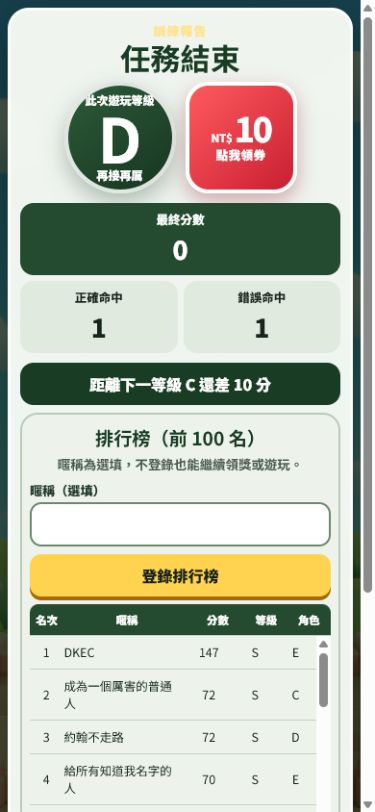
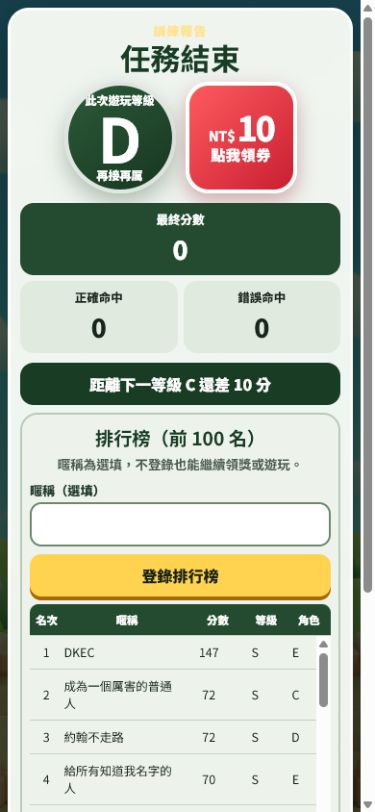
style: enlarge coupon supporting text

Changed region(s): [[0.5573, 0.1232, 0.7333, 0.2155], [0.2347, 0.3695, 0.2933, 0.431], [0.6747, 0.3695, 0.7333, 0.431]]

diff --git a/src/styles.css b/src/styles.css
@@ -522,7 +522,7 @@ button:focus-visible {
 }
 
 .reward-currency {
-  font-size: 0.72rem;
+  font-size: 0.9rem;
   font-weight: 800;
   letter-spacing: -0.02em;
 }
@@ -535,7 +535,7 @@ button:focus-visible {
 }
 
 .reward-label {
-  font-size: 0.78rem;
+  font-size: 0.94rem;
   font-weight: 900;
   line-height: 1;
   letter-spacing: 0.04em;

diff --git a/design-qa.md b/design-qa.md
@@ -1,6 +1,6 @@
 # Coupon Typography Design QA
 
-- Source visual truth: `C:/Users/DK-EC-~1/AppData/Local/Temp/codex-clipboard-36c6b628-252d-44e8-9e72-5010952a0bd5.png`
+- Source visual truth: `C:/Users/DK-EC-~1/AppData/Local/Temp/codex-clipboard-05db068f-acc5-4979-85e8-1a5223cb0edc.png`
 - Implementation screenshot: `artifacts/coupon-typography-390x844.png`
 - Viewport: 390 x 844 CSS pixels
 - State: compact-mobile results screen, D grade, NT$10 reward
@@ -9,7 +9,7 @@
 
 The source reference and browser-rendered implementation were opened together for direct comparison. The implementation reproduces the requested hierarchy: a small `NT$` shares the first line and baseline with a much larger numeric amount, while `點我領券` is a smaller second line. The existing project constraints intentionally remain different from the neutral reference canvas: the control stays red, square, white-text, and beside the grade badge.
 
-Browser measurements confirm the compact button remains exactly 116 x 116 px with zero horizontal or vertical overflow. Computed font sizes are 11.52 px for `NT$`, 35.1 px for the amount, and 12.48 px for `點我領券`.
+Browser measurements confirm the compact button remains exactly 116 x 116 px with zero horizontal or vertical overflow. Computed font sizes are 14.4 px (10.8 pt) for `NT$`, 35.1 px (26.3 pt) for the amount, and 15.04 px (11.28 pt) for `點我領券`.
 
 ## Focused-region Evidence
 
@@ -17,7 +17,7 @@ A separate crop was not required because the supplied source is already an isola
 
 ## Required Fidelity Surfaces
 
-- Fonts and typography: passed. The amount is approximately three times the currency size and is the clear focal point; the CTA remains secondary.
+- Fonts and typography: passed. The amount remains dominant while the currency prefix and CTA are now large enough to read comfortably at compact-mobile size.
 - Spacing and layout rhythm: passed. The two-line group is centered inside the unchanged square and does not overflow.
 - Colors and visual tokens: passed. The approved red gradient, white text, border, shadow, hover, and focus treatment are preserved.
 - Image quality and asset fidelity: passed. This change introduces no new image assets and does not alter existing imagery.
@@ -41,7 +41,9 @@ None.
 
 ## Comparison History
 
-- Initial pass: no P0/P1/P2 findings; no visual correction loop was required.
+- Earlier pass: the currency prefix and CTA measured 11.52 px and 12.48 px; user review identified them as too small.
+- Fix applied: increased the two supporting levels to 14.4 px and 15.04 px without changing the amount.
+- Post-fix evidence: the revised 390 x 844 browser capture shows both labels clearly, and the 116 x 116 control still has zero overflow with no console warnings or errors.
 
 ## Follow-up Polish
 